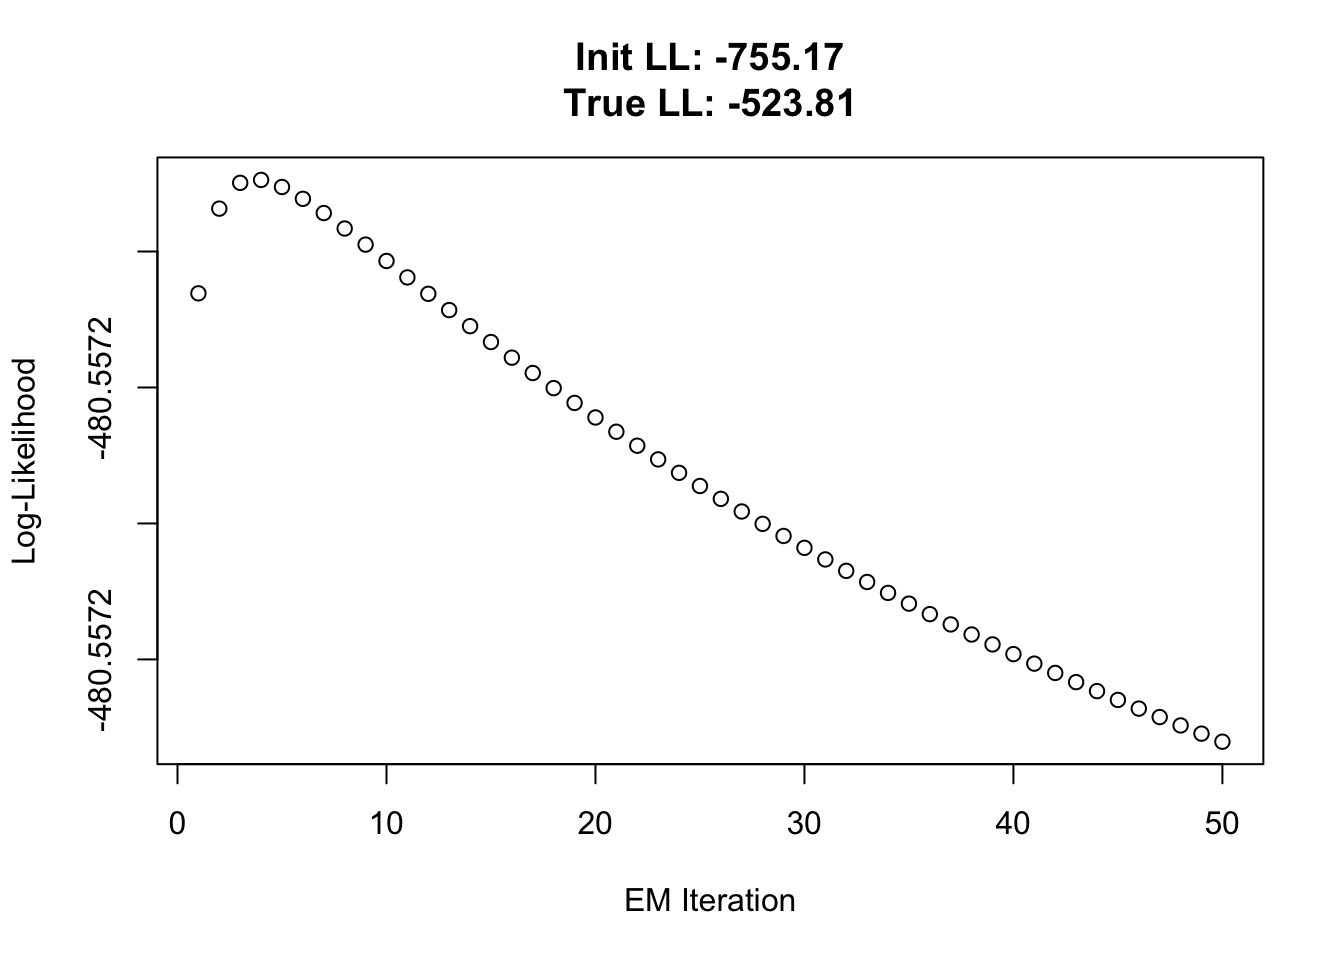
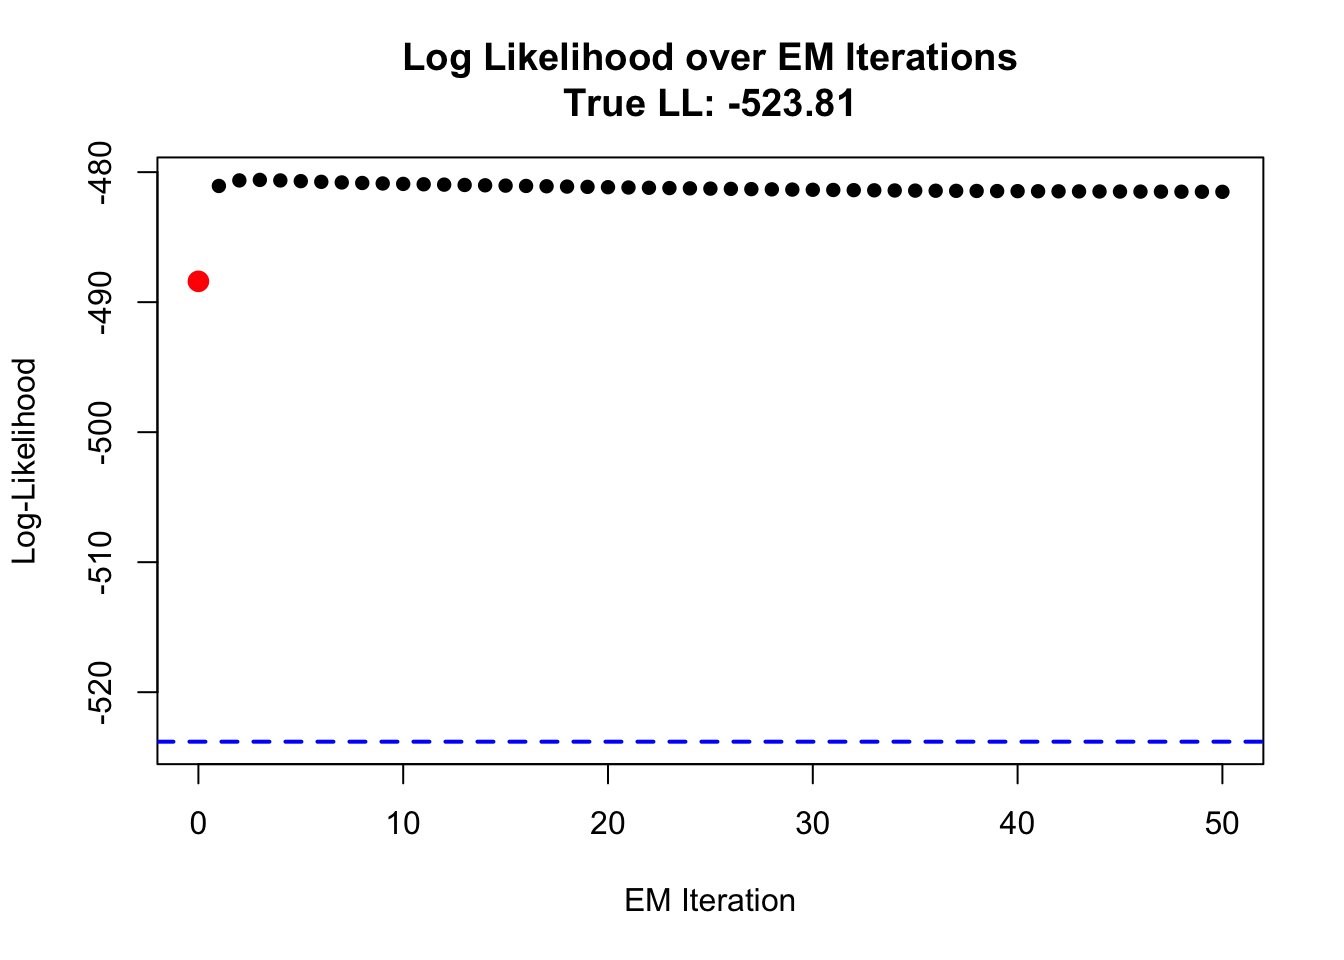
Build site.

diff --git a/docs/em.html b/docs/em.html
@@ -521,15 +521,15 @@ project makes it easier to run your code on other machines.</p>
 <div class="panel panel-default">
 <div class="panel-heading">
 <p class="panel-title">
-<a data-toggle="collapse" data-parent="#workflowr-checks" href="#strongRepositoryversionstrongahrefhttpsgithubcomjiheeyybackgroundtree0280453dcb74ee7a024830a10be57eba56675169targetblank0280453a">
+<a data-toggle="collapse" data-parent="#workflowr-checks" href="#strongRepositoryversionstrongahrefhttpsgithubcomjiheeyybackgroundtree42fc71be0d0e6a6c49474ba40fbe8a691f9d886dtargetblank42fc71ba">
 <span class="glyphicon glyphicon-ok text-success"
 aria-hidden="true"></span> <strong>Repository version:</strong>
-<a href="https://github.com/jiheeyy/background/tree/0280453dcb74ee7a024830a10be57eba56675169" target="_blank">0280453</a>
+<a href="https://github.com/jiheeyy/background/tree/42fc71be0d0e6a6c49474ba40fbe8a691f9d886d" target="_blank">42fc71b</a>
 </a>
 </p>
 </div>
 <div
[2 lines of base64/hex data omitted]
 class="panel-collapse collapse">
 <div class="panel-body">
 <p>
@@ -539,7 +539,7 @@ reproducibility.
 </p>
 <p>
 The results in this page were generated with repository version
-<a href="https://github.com/jiheeyy/background/tree/0280453dcb74ee7a024830a10be57eba56675169" target="_blank">0280453</a>.
+<a href="https://github.com/jiheeyy/background/tree/42fc71be0d0e6a6c49474ba40fbe8a691f9d886d" target="_blank">42fc71b</a>.
 See the <em>Past versions</em> tab to see a history of the changes made
 to the R Markdown and HTML files.
 </p>
@@ -605,6 +605,40 @@ Message
 </tr>
 </thead>
 <tbody>
+<tr>
+<td>
+Rmd
+</td>
+<td>
+<a href="https://github.com/jiheeyy/background/blob/42fc71be0d0e6a6c49474ba40fbe8a691f9d886d/analysis/em.Rmd" target="_blank">42fc71b</a>
+</td>
+<td>
+jiheeyy
+</td>
+<td>
+2026-03-09
+</td>
+<td>
+include metrics
+</td>
+</tr>
+<tr>
+<td>
+html
+</td>
+<td>
+<a href="https://rawcdn.githack.com/jiheeyy/background/79e6098ec9ba57635181c22e0a7355ede88c70c1/docs/em.html" target="_blank">79e6098</a>
+</td>
+<td>
+jiheeyy
+</td>
+<td>
+2026-03-09
+</td>
+<td>
+Build site.
+</td>
+</tr>
 <tr>
 <td>
 Rmd
@@ -1044,18 +1078,19 @@ M_step &lt;- function(log_L, log_F, E_res){
   return(list(log_L=newlog_L, log_F=newlog_F))
 }</code></pre>
 <pre class="r"><code>library(fastTopics)
+library(NNLM)
 source(here(&quot;docs&quot;,&quot;code&quot;,&quot;initialize.R&quot;))
 source(here(&quot;docs&quot;,&quot;code&quot;,&quot;utils.R&quot;))
 
 set.seed(4)
-init_res = initialize(X=data$X, K=3)</code></pre>
-<pre><code>Initializing factors using Topic SCORE algorithm.
-Initializing loadings by running 10 SCD updates.
-Fitting rank-3 Poisson NMF to 12 x 30 sparse matrix.
-Running at most 50 SCD updates, without extrapolation (fastTopics 0.6-192).</code></pre>
-<pre class="r"><code>shuffled_L &lt;- data$L[sample(nrow(data$L)),]
-log_L = init_res$qg$qllog_norm + 1
-log_F = init_res$qg$qflog_norm
+
+init_res = NNLM::nnmf(A = as.matrix(data$X), k = 3)
+log_L = log(init_res$W)
+log_F = log(t(init_res$H))
+
+# init_res = initialize(X=data$X, K=3)
+# log_L = init_res$qg$qllog_norm
+# log_F = init_res$qg$qflog_norm
 
 init_ll = compute_loglik(log_L, log_F, data$X)
 gt_ll = compute_loglik(log(data$L), log(data$F), data$X)
@@ -1063,7 +1098,82 @@ gt_ll = compute_loglik(log(data$L), log(data$F), data$X)
 visualize_lf(exp(log_L),
              exp(log_F),
              sprintf(&quot;Initialized Log-Likelihood: %.2f\n&quot;, init_ll))</code></pre>
-<p><img src="figure/em.Rmd/unnamed-chunk-6-1.png" width="672" style="display: block; margin: auto;" /><img src="figure/em.Rmd/unnamed-chunk-6-2.png" width="672" style="display: block; margin: auto;" /></p>
+<p><img src="figure/em.Rmd/unnamed-chunk-6-1.png" width="672" style="display: block; margin: auto;" /></p>
+<p>
+<button type="button" class="btn btn-default btn-xs btn-workflowr btn-workflowr-fig" data-toggle="collapse" data-target="#fig-unnamed-chunk-6-1">
+Past versions of unnamed-chunk-6-1.png
+</button>
+</p>
+<div id="fig-unnamed-chunk-6-1" class="collapse">
+<div class="table-responsive">
+<table class="table table-condensed table-hover">
+<thead>
+<tr>
+<th>
+Version
+</th>
+<th>
+Author
+</th>
+<th>
+Date
+</th>
+</tr>
+</thead>
+<tbody>
+<tr>
+<td>
+<a href="https://github.com/jiheeyy/background/blob/79e6098ec9ba57635181c22e0a7355ede88c70c1/docs/figure/em.Rmd/unnamed-chunk-6-1.png" target="_blank">79e6098</a>
+</td>
+<td>
+jiheeyy
+</td>
+<td>
+2026-03-09
+</td>
+</tr>
+</tbody>
+</table>
+</div>
+</div>
+<p><img src="figure/em.Rmd/unnamed-chunk-6-2.png" width="672" style="display: block; margin: auto;" /></p>
+<p>
+<button type="button" class="btn btn-default btn-xs btn-workflowr btn-workflowr-fig" data-toggle="collapse" data-target="#fig-unnamed-chunk-6-2">
+Past versions of unnamed-chunk-6-2.png
+</button>
+</p>
+<div id="fig-unnamed-chunk-6-2" class="collapse">
+<div class="table-responsive">
+<table class="table table-condensed table-hover">
+<thead>
+<tr>
+<th>
+Version
+</th>
+<th>
+Author
+</th>
+<th>
+Date
+</th>
+</tr>
+</thead>
+<tbody>
+<tr>
+<td>
+<a href="https://github.com/jiheeyy/background/blob/79e6098ec9ba57635181c22e0a7355ede88c70c1/docs/figure/em.Rmd/unnamed-chunk-6-2.png" target="_blank">79e6098</a>
+</td>
+<td>
+jiheeyy
+</td>
+<td>
+2026-03-09
+</td>
+</tr>
+</tbody>
+</table>
+</div>
+</div>
 <pre class="r"><code># qg = list(ql_norm = L, qllog_norm = log(L), kl_l = replicate(K,NA),
 #             qf_norm = F, qflog_norm = log(F), kl_f = replicate(K,NA),
 
@@ -1074,17 +1184,162 @@ for (niter in 1:maxiter){
   new = M_step(log_L, log_F, Ez_two)
   log_L = new$log_L
   log_F = new$log_F
+
   ll = compute_loglik(log_L, log_F, data$X)
   ll_list[niter] = ll
   # cat(&quot;niter &quot;,niter, &quot;-------------&quot;, sprintf(&quot;LL: %.2f\n&quot;,  ll))
 }
 visualize_lf(exp(log_L), exp(log_F), &quot;End results&quot;)</code></pre>
-<p><img src="figure/em.Rmd/unnamed-chunk-6-3.png" width="672" style="display: block; margin: auto;" /><img src="figure/em.Rmd/unnamed-chunk-6-4.png" width="672" style="display: block; margin: auto;" /></p>
-<pre class="r"><code>plot(ll_list, 
-     main = sprintf(&quot;Init LL: %.2f\nTrue LL: %.2f&quot;, init_ll, gt_ll),
+<p><img src="figure/em.Rmd/unnamed-chunk-6-3.png" width="672" style="display: block; margin: auto;" /></p>
+<p>
+<button type="button" class="btn btn-default btn-xs btn-workflowr btn-workflowr-fig" data-toggle="collapse" data-target="#fig-unnamed-chunk-6-3">
+Past versions of unnamed-chunk-6-3.png
+</button>
+</p>
+<div id="fig-unnamed-chunk-6-3" class="collapse">
+<div class="table-responsive">
+<table class="table table-condensed table-hover">
+<thead>
+<tr>
+<th>
+Version
+</th>
+<th>
+Author
+</th>
+<th>
+Date
+</th>
+</tr>
+</thead>
+<tbody>
+<tr>
+<td>
+<a href="https://github.com/jiheeyy/background/blob/79e6098ec9ba57635181c22e0a7355ede88c70c1/docs/figure/em.Rmd/unnamed-chunk-6-3.png" target="_blank">79e6098</a>
+</td>
+<td>
+jiheeyy
+</td>
+<td>
+2026-03-09
+</td>
+</tr>
+</tbody>
+</table>
+</div>
+</div>
+<p><img src="figure/em.Rmd/unnamed-chunk-6-4.png" width="672" style="display: block; margin: auto;" /></p>
+<p>
+<button type="button" class="btn btn-default btn-xs btn-workflowr btn-workflowr-fig" data-toggle="collapse" data-target="#fig-unnamed-chunk-6-4">
+Past versions of unnamed-chunk-6-4.png
+</button>
+</p>
+<div id="fig-unnamed-chunk-6-4" class="collapse">
+<div class="table-responsive">
+<table class="table table-condensed table-hover">
+<thead>
+<tr>
+<th>
+Version
+</th>
+<th>
+Author
+</th>
+<th>
+Date
+</th>
+</tr>
+</thead>
+<tbody>
+<tr>
+<td>
+<a href="https://github.com/jiheeyy/background/blob/79e6098ec9ba57635181c22e0a7355ede88c70c1/docs/figure/em.Rmd/unnamed-chunk-6-4.png" target="_blank">79e6098</a>
+</td>
+<td>
+jiheeyy
+</td>
+<td>
+2026-03-09
+</td>
+</tr>
+</tbody>
+</table>
+</div>
+</div>
+<pre class="r"><code># 1. Calculate y-axis limits so init_ll and gt_ll don&#39;t get cut off
+y_bounds &lt;- range(c(init_ll, ll_list, gt_ll), na.rm = TRUE)
+
+# 2. Plot the main EM iterations (x = 1 to maxiter)
+plot(1:length(ll_list), ll_list, 
+     xlim = c(0, length(ll_list)),  # Expands x-axis to include 0
+     ylim = y_bounds,               # Expands y-axis to fit all values
+     main = sprintf(&quot;Log Likelihood over EM Iterations\nTrue LL: %.2f&quot;, gt_ll),
      ylab = &quot;Log-Likelihood&quot;,
-     xlab = &quot;EM Iteration&quot;)</code></pre>
+     xlab = &quot;EM Iteration&quot;,
+     type = &quot;b&quot;,                    # &#39;b&#39; draws both points and lines
+     pch = 16)                      # Solid circle marker
+
+# 4. Plot the initial LL point at x = 0 in red (cex = 1.5 makes it slightly larger)
+points(0, init_ll, col = &quot;red&quot;, pch = 16, cex = 1.5)
+
+# 5. Add the True LL as a horizontal dashed line
+abline(h = gt_ll, col = &quot;blue&quot;, lty = 2, lwd = 2)</code></pre>
 <p><img src="figure/em.Rmd/unnamed-chunk-6-5.png" width="672" style="display: block; margin: auto;" /></p>
+<p>
+<button type="button" class="btn btn-default btn-xs btn-workflowr btn-workflowr-fig" data-toggle="collapse" data-target="#fig-unnamed-chunk-6-5">
+Past versions of unnamed-chunk-6-5.png
+</button>
+</p>
+<div id="fig-unnamed-chunk-6-5" class="collapse">
+<div class="table-responsive">
+<table class="table table-condensed table-hover">
+<thead>
+<tr>
+<th>
+Version
+</th>
+<th>
+Author
+</th>
+<th>
+Date
+</th>
+</tr>
+</thead>
+<tbody>
+<tr>
+<td>
+<a href="https://github.com/jiheeyy/background/blob/79e6098ec9ba57635181c22e0a7355ede88c70c1/docs/figure/em.Rmd/unnamed-chunk-6-5.png" target="_blank">79e6098</a>
+</td>
+<td>
+jiheeyy
+</td>
+<td>
+2026-03-09
+</td>
+</tr>
+</tbody>
+</table>
+</div>
+</div>
+</div>
+<div id="evaluate" class="section level1">
+<h1>Evaluate</h1>
+<pre class="r"><code>source(here(&quot;docs&quot;,&quot;code&quot;,&quot;utils.R&quot;))
+source(here(&quot;docs&quot;,&quot;code&quot;,&quot;eval.R&quot;))</code></pre>
+<pre><code>Warning: package &#39;lsa&#39; was built under R version 4.5.1</code></pre>
+<pre><code>Loading required package: SnowballC</code></pre>
+<pre class="r"><code>mae = eval_mae(est_L=exp(log_L), est_F=exp(log_F), 
+               true_L=data$L, true_F=data$F, 
+               X=data$X)
+
+csim = eval_csim(est_L=exp(log_L), est_F=exp(log_F), 
+                 true_L=data$L, true_F=data$F)
+
+plot_upper_heatmap(csim$cos_L, &quot;L Cosine Similarity&quot;)</code></pre>
+<p><img src="figure/em.Rmd/unnamed-chunk-7-1.png" width="672" style="display: block; margin: auto;" /></p>
+<pre class="r"><code>plot_upper_heatmap(csim$cos_F, &quot;F Cosine Similarity&quot;)</code></pre>
+<p><img src="figure/em.Rmd/unnamed-chunk-7-2.png" width="672" style="display: block; margin: auto;" /></p>
 </div>
 <div id="explanations-for-upkeep-irrelevant-to-implementation-though"
 class="section level1">
@@ -1145,8 +1400,9 @@ attached base packages:
 [1] stats     graphics  grDevices utils     datasets  methods   base     
 
 other attached packages:
-[1] fastTopics_0.6-192 matrixStats_1.5.0  Matrix_1.7-3       ggplot2_3.5.2     
-[5] pheatmap_1.0.13    here_1.0.2         workflowr_1.7.1   
+ [1] lsa_0.73.4         SnowballC_0.7.1    NNLM_0.4.4         fastTopics_0.6-192
+ [5] matrixStats_1.5.0  Matrix_1.7-3       ggplot2_3.5.2      pheatmap_1.0.13   
+ [9] here_1.0.2         workflowr_1.7.1   
 
 loaded via a namespace (and not attached):
  [1] gtable_0.3.6        xfun_0.52           bslib_0.9.0        
